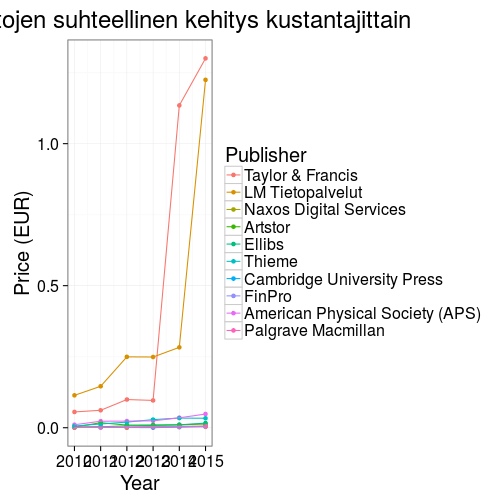
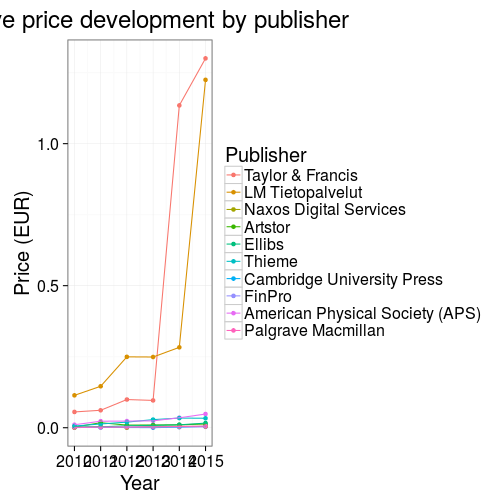
ok

Changed region(s): [[0.0, 0.0, 0.8333, 0.0595]]

diff --git a/20160610/foi.md b/20160610/foi.md
@@ -344,7 +344,7 @@ p <- ggplot(dfs3,
        aes(x = Year, y = Price, color = Publisher)) +
        geom_point() +
        geom_line() +       
-       ggtitle("Kokonaishintojen suhteellinen kehitys kustantajittain") +
+       ggtitle("Relative price development by publisher") +
        ylab("Price (EUR)") 
 print(p)
 ```
